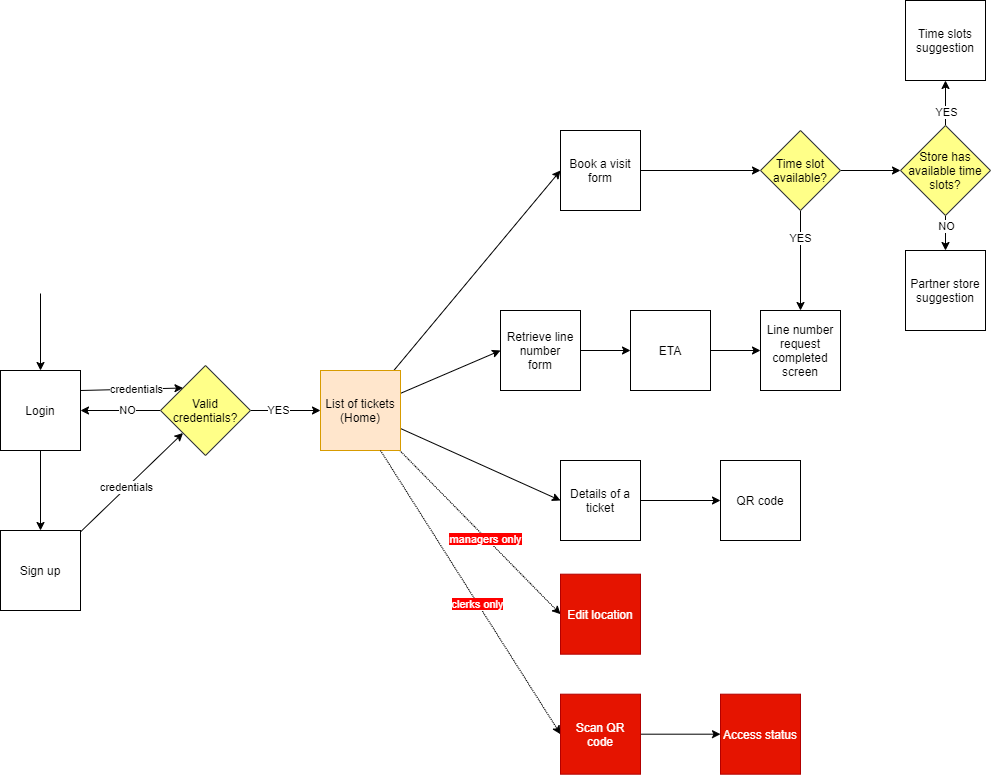
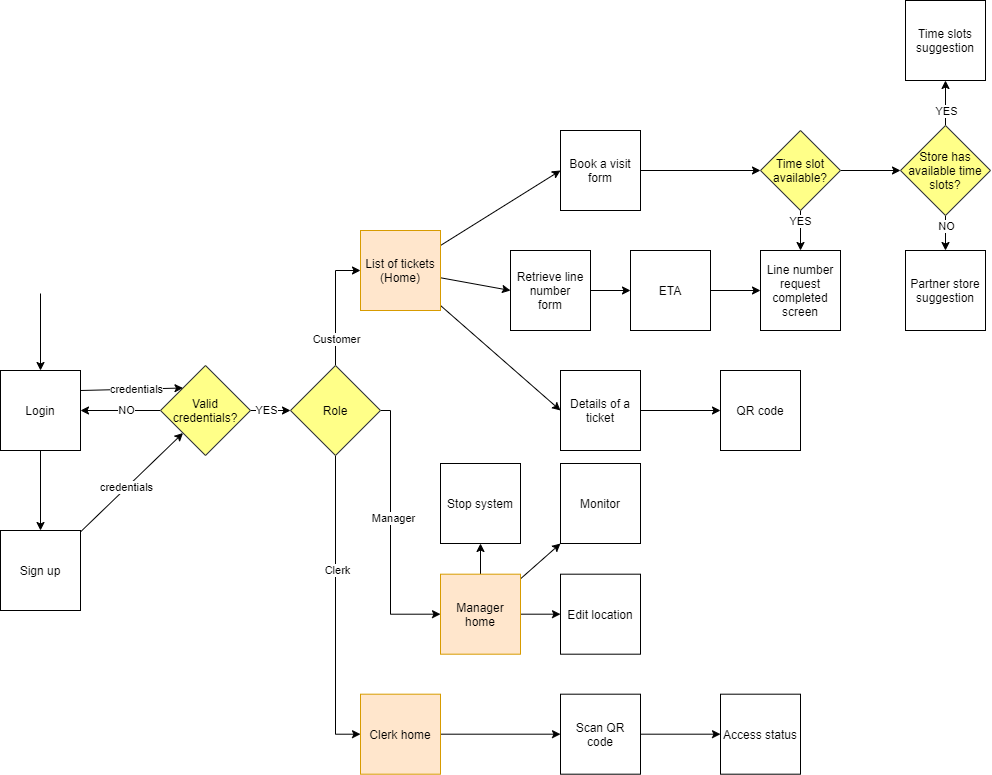
updated UX Diagram

diff --git a/DD/Files/userInterfaceDesign.tex b/DD/Files/userInterfaceDesign.tex
@@ -2,7 +2,7 @@
 \subsection{User Interface Diagram}
 
 The following diagram represent the flow of events that the user can choose to follow in order to obtain the service they're looking for.
-From any window it's always possible to go back to the List of tickets (Home) window, this arrows are not explicited in the diagram for a cleaner diagram.
+From any window it's always possible to go back to the home window releted to the role of the user, this arrows are not explicited in the diagram for a cleaner diagram.
 The mockups of the application appearance are presented in the RASD document.
 
 \begin{figure}[H]
